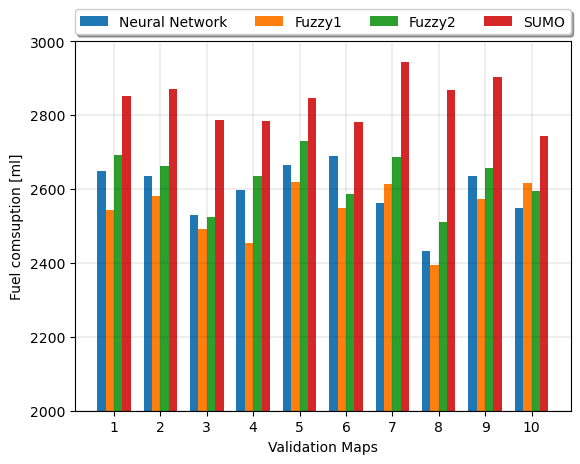
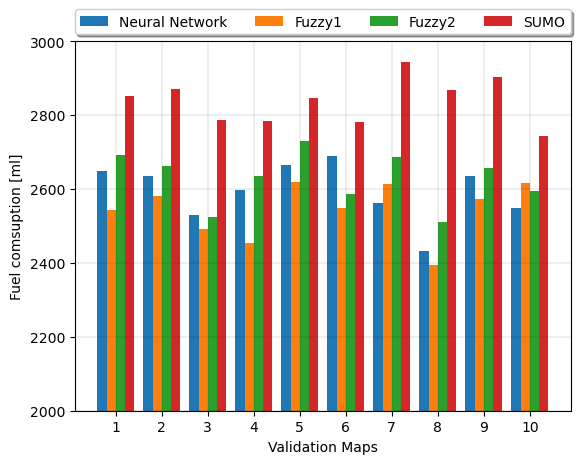
Final plots metrics

diff --git a/plot_validation.py b/plot_validation.py
@@ -83,8 +83,8 @@ print(len(x))
 print(len(total_fuel_fuzzy))
 
 
-width = 0.18
-space = 0.18
+width = 0.2
+space = 0.2
 
 
 labels = ['1', '2', '3', '4', '5', '6', '7', '8', '9', '10']
